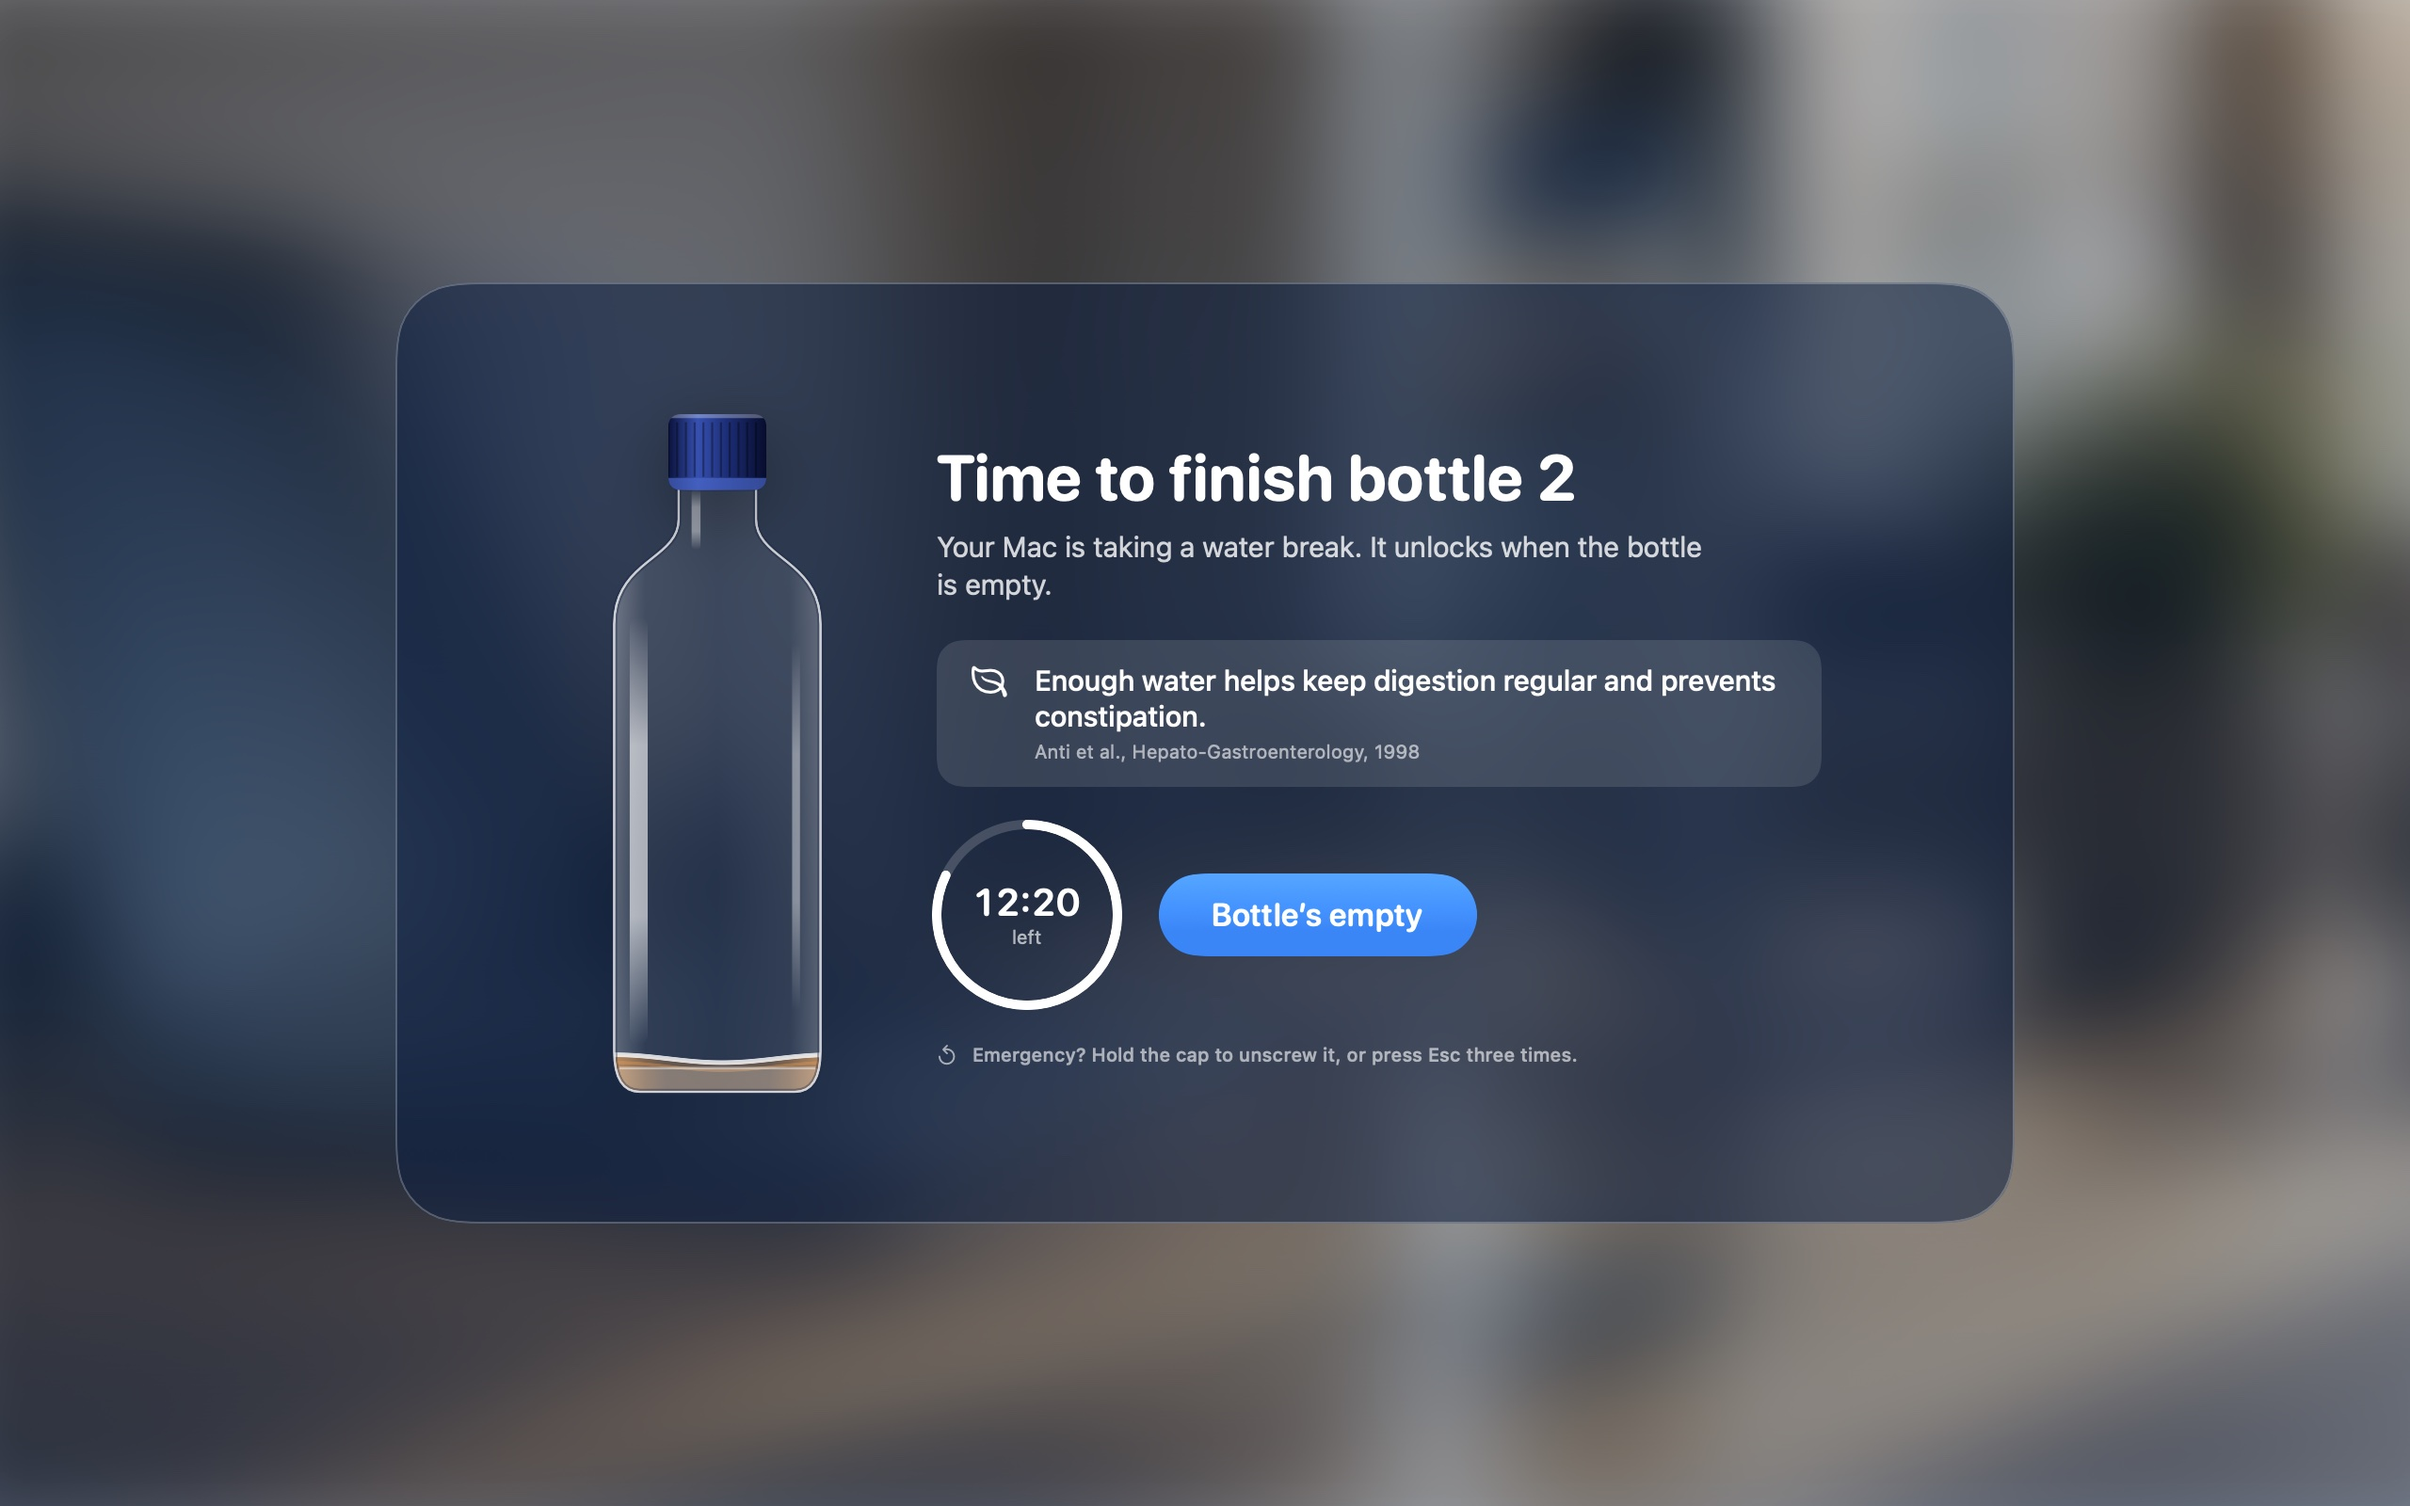
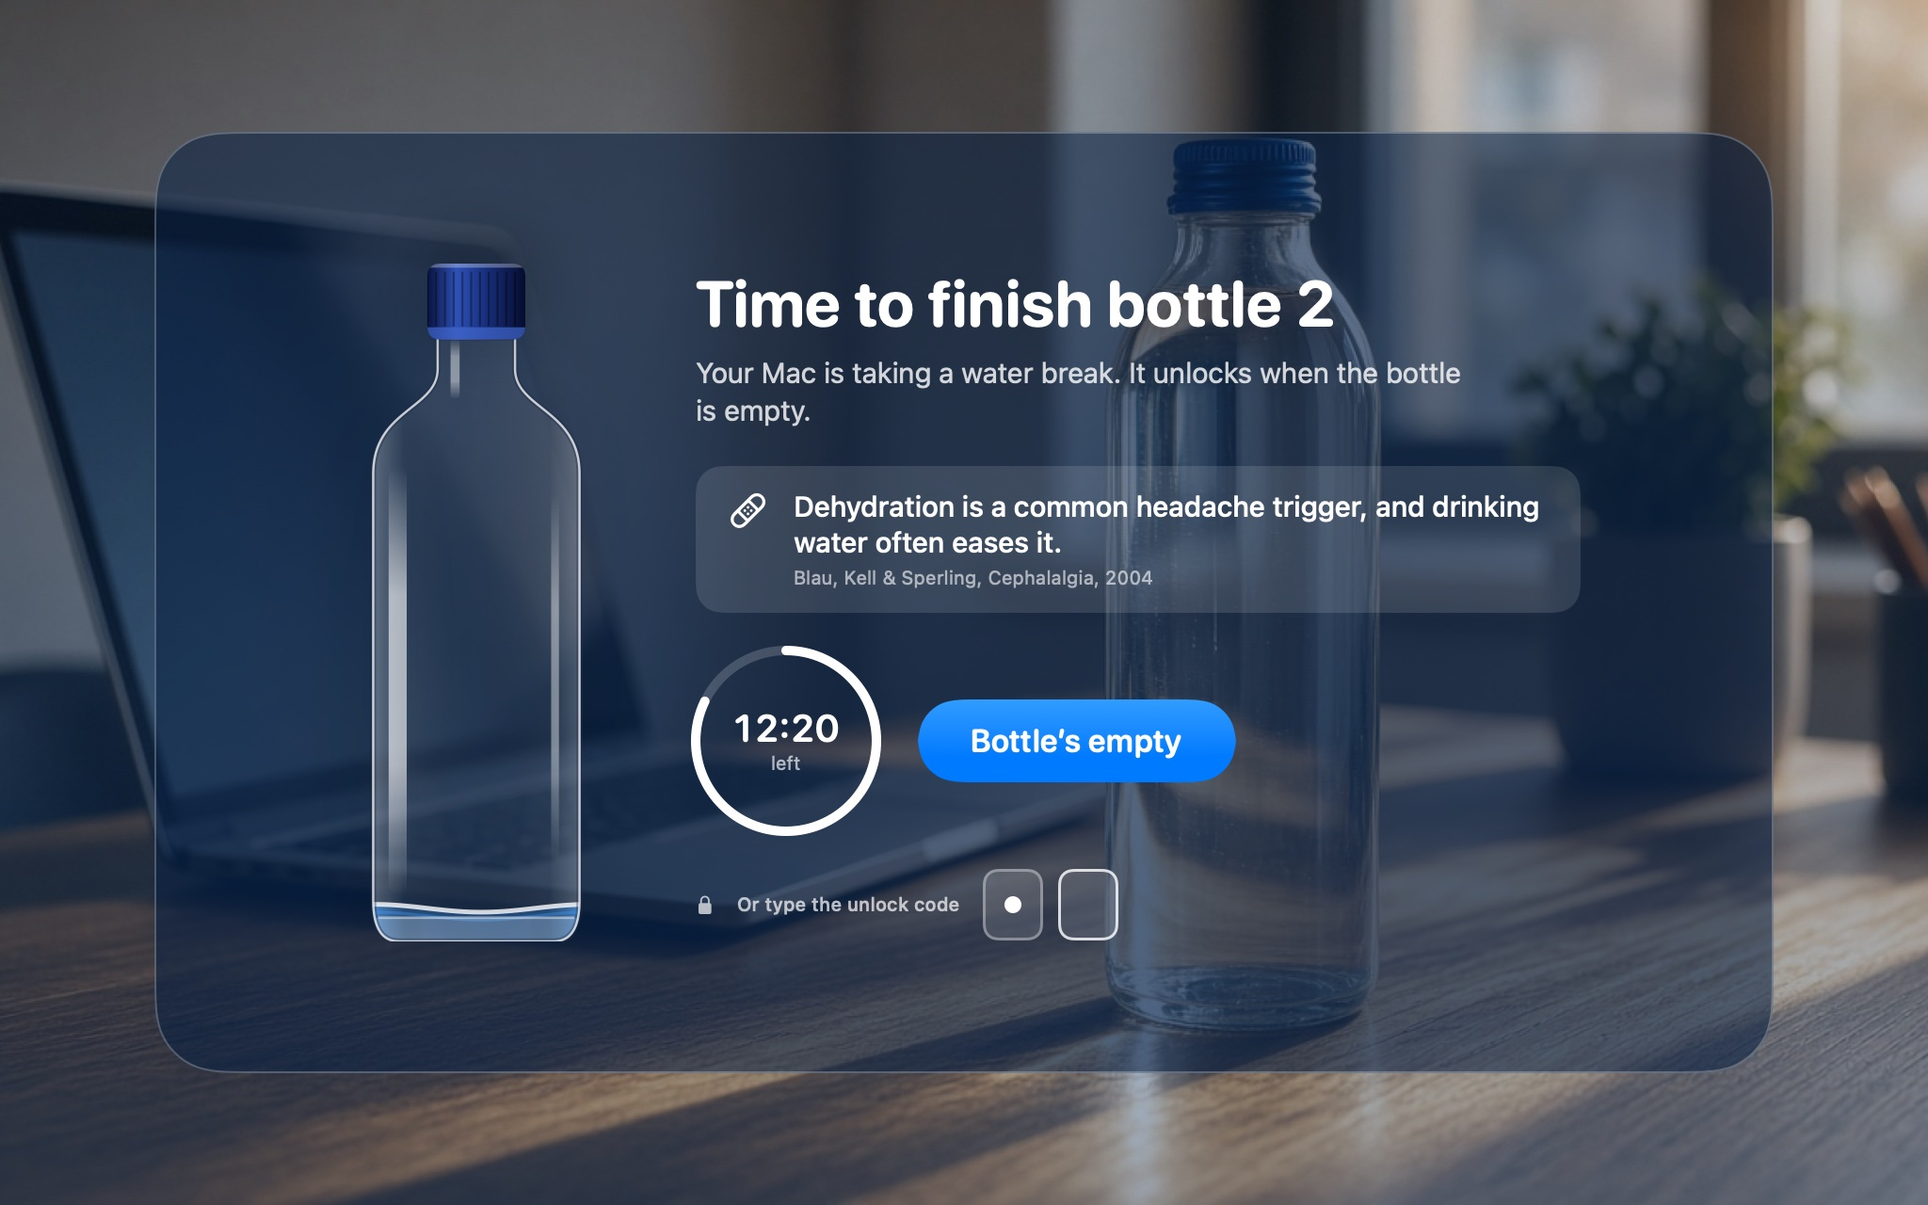
Release 1.0.5: a two-digit unlock code for parents on the Dry Spell

diff --git a/Sources/Sip/UI/Lock.swift b/Sources/Sip/UI/Lock.swift
@@ -64,12 +64,17 @@ struct LockView: View {
                     }
                     .keyboardShortcut(.return)
                 }
-                HStack(spacing: 8) {
-                    Image(systemName: "arrow.counterclockwise")
-                    Text("Emergency? Hold the cap to unscrew it, or press Esc three times.")
+                if model.unlockCode != nil {
+                    HStack(spacing: 12) {
+                        Image(systemName: "lock.fill")
+                        Text("Or type the unlock code")
+                        CodeBoxes(entry: model.codeEntry)
+                            .modifier(Shake(misses: model.codeMisses))
+                            .animation(.linear(duration: 0.4), value: model.codeMisses)
+                    }
+                    .font(.footnote.weight(.medium))
+                    .foregroundStyle(.white.opacity(0.7))
                 }
-                .font(.footnote.weight(.medium))
-                .foregroundStyle(.white.opacity(0.6))
             }
             .frame(width: 470, alignment: .leading)
         }
@@ -99,6 +104,36 @@ struct LockView: View {
         .padding(.vertical, 12)
         .frame(maxWidth: .infinity, alignment: .leading)
         .background(.white.opacity(0.12), in: RoundedRectangle(cornerRadius: 14, style: .continuous))
+    }
+}
+
+/// Two boxes that fill with a dot for each digit typed.
+private struct CodeBoxes: View {
+    let entry: String
+
+    var body: some View {
+        HStack(spacing: 8) {
+            ForEach(0..<2, id: \.self) { index in
+                RoundedRectangle(cornerRadius: 8, style: .continuous)
+                    .fill(.white.opacity(0.12))
+                    .strokeBorder(.white.opacity(index == entry.count ? 0.8 : 0.35), lineWidth: 1.5)
+                    .overlay {
+                        if index < entry.count { Circle().fill(.white).frame(width: 9, height: 9) }
+                    }
+                    .frame(width: 32, height: 38)
+            }
+        }
+    }
+}
+
+/// A quick side-to-side shake after a wrong code.
+private struct Shake: GeometryEffect {
+    var animatableData: CGFloat
+
+    init(misses: Int) { animatableData = CGFloat(misses) }
+
+    func effectValue(size: CGSize) -> ProjectionTransform {
+        ProjectionTransform(CGAffineTransform(translationX: 8 * sin(animatableData * .pi * 6), y: 0))
     }
 }
 
@@ -152,9 +187,9 @@ private struct Countdown: View {
     }
 }
 
-/// Always a way out: hold the bottle's cap and it unscrews, rising a little with each turn, until it pops
-/// off after three seconds and the screen unlocks. Let go early and it screws itself back down.
-/// That bottle won't lock the Mac again.
+/// Always a way out, even past a parent's code, though the lock screen never mentions it: hold the
+/// bottle's cap and it unscrews, rising a little with each turn, until it pops off after three seconds
+/// and the screen unlocks. Let go early and it screws itself back down. That bottle won't lock the Mac again.
 struct CapUnlock: View {
     let level: Double
     let sounds: Bool
@@ -209,7 +244,6 @@ struct CapUnlock: View {
                 .frame(width: space.size.width * 0.75, height: space.size.height * 0.2)
                 .frame(maxWidth: .infinity)
                 .offset(y: -space.size.height * 0.05)
-                .onHover { inside in (inside ? NSCursor.openHand : NSCursor.arrow).set() }
                 .onLongPressGesture(minimumDuration: Self.holdTime, maximumDistance: 60) {
                     hold = Hold(popped: true)
                     if sounds { NSSound(named: "Pop")?.play() }
@@ -217,7 +251,6 @@ struct CapUnlock: View {
                 } onPressingChanged: { pressing in
                     guard !hold.popped else { return }
                     if pressing {
-                        NSCursor.closedHand.set()
                         hold = Hold(pressed: Date())
                     } else {
                         let from = turn(at: Date())
@@ -228,7 +261,6 @@ struct CapUnlock: View {
                     }
                 }
         }
-        .help(Text("Hold the cap for an emergency unlock"))
     }
 }
 
@@ -346,8 +378,16 @@ final class LockController {
         self.pulse = pulse
         watchdog.arm(true)
         keys = NSEvent.addLocalMonitorForEvents(matching: .keyDown) { [weak self] event in
-            guard event.keyCode == 53 else { return event }
-            MainActor.assumeIsolated { self?.escapePressed() }
+            switch event.keyCode {
+            case 53:
+                MainActor.assumeIsolated { self?.escapePressed() }
+            case 51, 117:
+                MainActor.assumeIsolated { self?.model.eraseCode() }
+            default:
+                guard let digit = event.charactersIgnoringModifiers?.first, digit.isASCII, digit.isNumber,
+                      event.modifierFlags.isDisjoint(with: [.command, .control, .option]) else { return event }
+                MainActor.assumeIsolated { self?.model.typeCode(digit) }
+            }
             return nil
         }
         NSApp.presentationOptions = [.hideDock, .hideMenuBar, .disableProcessSwitching, .disableHideApplication]

diff --git a/Sources/Sip/UI/SetupView.swift b/Sources/Sip/UI/SetupView.swift
@@ -219,6 +219,49 @@ private struct TimeField: View {
     }
 }
 
+/// The two digits a parent picks to end the Dry Spell.
+struct UnlockCodeField: View {
+    @AppStorage(Prefs.unlockCode) private var code = ""
+    @FocusState private var focused: Bool
+
+    var body: some View {
+        HStack(spacing: 6) {
+            Text("Unlock code").font(.system(size: 12, weight: .medium)).frame(width: 110, alignment: .leading)
+            HStack(spacing: 5) {
+                ForEach(0..<2, id: \.self) { index in
+                    let digits = Array(code)
+                    let shape = RoundedRectangle(cornerRadius: 7, style: .continuous)
+                    Text(index < digits.count ? String(digits[index]) : "")
+                        .font(.system(size: 14, weight: .semibold, design: .rounded).monospacedDigit())
+                        .frame(width: 26, height: 28)
+                        .background(.quaternary.opacity(0.6), in: shape)
+                        .overlay(shape.strokeBorder(focused && (index == digits.count || digits.count == 2) ? Color.accentColor : .clear,
+                                                    lineWidth: 1.5))
+                }
+            }
+            .contentShape(Rectangle())
+            .focusable()
+            .focused($focused)
+            .focusEffectDisabled()
+            .onTapGesture { focused = true }
+            .onKeyPress(phases: .down) { press in
+                if press.key == .delete || press.key == .deleteForward {
+                    if !code.isEmpty { code.removeLast() }
+                    return .handled
+                }
+                guard let digit = press.characters.first, digit.isASCII, digit.isNumber else { return .ignored }
+                code = code.count >= 2 ? String(digit) : code + String(digit)
+                return .handled
+            }
+            Text(code.count == 2 ? "Typing it on the lock screen unlocks the Mac."
+                                 : "Click and type two digits, for a parent. Without a code, the lock ends when the bottle is empty or time runs out.")
+                .font(.caption)
+                .foregroundStyle(.secondary)
+                .fixedSize(horizontal: false, vertical: true)
+        }
+    }
+}
+
 struct WelcomeView: View {
     let done: () -> Void
 
@@ -243,6 +286,13 @@ struct WelcomeView: View {
                 .frame(maxWidth: .infinity, alignment: .leading)
                 .background(Color.accentColor.opacity(0.08), in: RoundedRectangle(cornerRadius: 10, style: .continuous))
             SetupFields()
+            VStack(alignment: .leading, spacing: 8) {
+                Text("DRY SPELL")
+                    .font(.system(size: 10, weight: .semibold))
+                    .tracking(0.8)
+                    .foregroundStyle(.tertiary)
+                UnlockCodeField()
+            }
             HStack {
                 Text("You can change all of this later in Settings.")
                     .font(.caption)
@@ -346,8 +396,9 @@ struct SettingsView: View {
                     .foregroundStyle(.tertiary)
                 choices(title: "Lock for", values: [5, 10, 15, 20], selection: $lockMinutes)
                 choices(title: "Grace after due", values: [5, 10, 15, 30], selection: $graceMinutes)
+                UnlockCodeField()
                 HStack {
-                    Text("Never during calls, when you're away, or in the hour before bed. In an emergency, hold the bottle’s cap until it unscrews.")
+                    Text("Never during calls, when you're away, or in the hour before bed.")
                         .font(.caption)
                         .foregroundStyle(.secondary)
                         .fixedSize(horizontal: false, vertical: true)

diff --git a/Sources/Sip/Model/WaterModel.swift b/Sources/Sip/Model/WaterModel.swift
@@ -20,6 +20,10 @@ final class WaterModel {
     private(set) var lockedUntil: Date?
     private(set) var lockStarted: Date?
     private(set) var previewLock = false
+    /// The digits of the unlock code typed so far on the Dry Spell.
+    private(set) var codeEntry = ""
+    /// Bumped on a wrong code, so the lock card can shake.
+    private(set) var codeMisses = 0
     private(set) var nudge: Nudge?
     private(set) var streak = 0
     /// A short reward shown on the bottle right after you finish one.
@@ -94,6 +98,28 @@ final class WaterModel {
     var graceMinutes: Int {
         _ = settingsVersion
         return max(1, defaults.integer(forKey: Prefs.graceMinutes))
+    }
+
+    var unlockCode: String? {
+        let code = defaults.string(forKey: Prefs.unlockCode) ?? ""
+        return code.count == 2 ? code : nil
+    }
+
+    func typeCode(_ digit: Character) {
+        guard isLocked, let code = unlockCode else { return }
+        codeEntry.append(digit)
+        guard codeEntry.count == code.count else { return }
+        if codeEntry == code {
+            endLock(finished: false, emergency: true)
+        } else {
+            codeEntry = ""
+            codeMisses += 1
+            play("Basso")
+        }
+    }
+
+    func eraseCode() {
+        if !codeEntry.isEmpty { codeEntry.removeLast() }
     }
 
     private func flag(_ key: String) -> Bool {
@@ -358,6 +384,7 @@ final class WaterModel {
     /// unless you used the emergency way out: then this bottle doesn't lock again.
     func endLock(finished: Bool, emergency: Bool = false) {
         let wasPreview = previewLock
+        codeEntry = ""
         lockedUntil = nil
         lockStarted = nil
         previewLock = false

diff --git a/Sources/Sip/Debug/Snapshots.swift b/Sources/Sip/Debug/Snapshots.swift
@@ -89,6 +89,15 @@ enum Snapshots {
                      to: folder.appending(path: "live-lock-unscrewing-\(Int(turn * 100)).png"))
         }
         CapUnlock.previewTurn = nil
+        let savedCode = UserDefaults.standard.string(forKey: Prefs.unlockCode)
+        UserDefaults.standard.set("42", forKey: Prefs.unlockCode)
+        model.typeCode("4")
+        try live(AnyView(LockView(model: model, primary: true).frame(width: 1024, height: 640)),
+                 to: folder.appending(path: "live-lock-code.png"))
+        try live(AnyView(SettingsView(model: model).background(Color(nsColor: .windowBackgroundColor))),
+                 to: folder.appending(path: "live-settings-code.png"))
+        model.eraseCode()
+        UserDefaults.standard.set(savedCode, forKey: Prefs.unlockCode)
         try live(AnyView(BottleView(level: 0.06, cap: .off).frame(height: 360).padding(30).background(Backdrop(photo: .afternoon))),
                  to: folder.appending(path: "live-cap-off.png"))
         LockView.backdrop = nil

diff --git a/Sources/Sip/Model/Plan.swift b/Sources/Sip/Model/Plan.swift
@@ -14,6 +14,8 @@ enum Prefs {
     static let sounds = "sounds"
     static let lockMinutes = "lockMinutes"
     static let graceMinutes = "graceMinutes"
+    /// Two digits a parent picks; typing them ends the Dry Spell. Empty means no code.
+    static let unlockCode = "unlockCode"
     static let hasOnboarded = "hasOnboarded"
     static let history = "history"
     static let corner = "corner"

diff --git a/README.md b/README.md
@@ -73,11 +73,11 @@ Sip isn’t medical advice. If you have kidney or heart problems, or take water 
 If a bottle still isn’t empty 10 minutes after it’s due, every display goes behind frosted glass for 15 minutes. The Dock and menu bar hide and app switching is off. One click on **Bottle’s empty** ends it right away. If the time runs out and the bottle still isn’t finished, the lock comes back 20 minutes later.
 
 - **Never at a bad moment.** Sip doesn’t lock while your camera or microphone is in use, while you’re away from the Mac (screen locked, asleep, or five minutes without a key press or mouse move), or in the hour before bed. Time away doesn’t count against you.
-- **Always a way out.** On any display, press and hold the bottle’s cap: it unscrews, and after three seconds it pops off and the screen unlocks. Or press **Esc** three times to unlock in an emergency; that bottle won’t lock your Mac again. The lock also ends on time on its own, and if Sip ever stops responding while the screen is covered, it quits itself so the cover goes away.
+- **A code for parents.** Set a two-digit **Unlock code** in setup or **Settings › Dry Spell**, and the lock screen asks for it: typing it unlocks the Mac right away, and that bottle won’t lock again. Without a code, the lock ends when the bottle is empty or the time runs out. If Sip ever stops responding while the screen is covered, it quits itself so the cover goes away.
 - **Your rules.** Choose a 5 to 20 minute lock and a 5 to 30 minute grace period after a bottle is due, or turn the Dry Spell off and keep just the reminders. **Settings › Try it for 20 seconds** shows you what it looks like.
 
 <p align="center">
-  <img src="docs/images/lock-desk.jpg" width="720" alt="The Dry Spell over a blurred desk: one glass card with a nearly empty bottle, “Time to finish bottle 2”, a fact about water and digestion with its source, a 12:20 countdown ring, a “Bottle’s empty” button, and a hint to hold the cap to unscrew it in an emergency.">
+  <img src="docs/images/lock-desk.jpg" width="720" alt="The Dry Spell over a blurred desk: one glass card with a nearly empty bottle, “Time to finish bottle 2”, a fact about water and headaches with its source, a 12:20 countdown ring, a “Bottle’s empty” button, and two boxes for the unlock code.">
 </p>
 
 ### Why water
